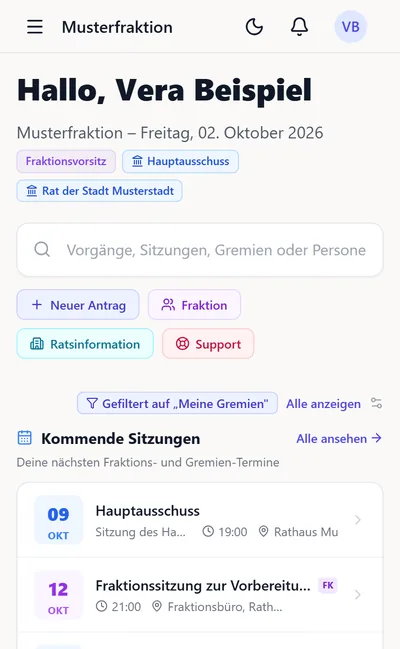
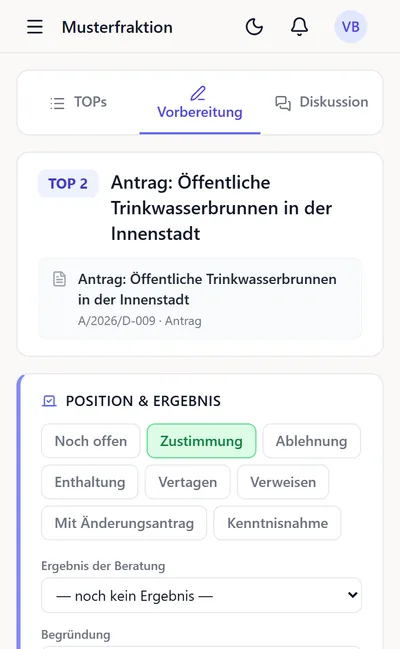
Startseite: Work am Handy mit der Sitzungsvorbereitung statt Dashboard
Am Handy zeigte das Work-Bild bisher das Dashboard mit Begrüßung und
Schnellzugriffen, der Alt-Text beschrieb aber die Sitzungsvorbereitung.
Ein <source> kann den Alt-Text nicht ändern, Screenreader hörten also
eine Beschreibung, die nicht zum Bild passte.

- neues Hochformat aus der öffentlichen Demo (Musterstadt): derselbe
  Bildschirm wie am Desktop, Sitzung vorbereiten mit TOP 2 und der
  Position der Fraktion; nur lesend aufgenommen, Demo-Hinweise und die
  halbdurchsichtige Kopfzeile im Bild bereinigt
- Alt-Text so gefasst, dass er auf beide Bilder zutrifft
- Work wird wie Insight bevorzugt geladen (fetchpriority=high), am Handy
  ist es das größte sichtbare Bild

diff --git a/templates/marketing/landing.html b/templates/marketing/landing.html
@@ -18,7 +18,7 @@
             </div>
         </div>
 
-        {# Eine Figur aus drei echten Bildschirmen, leicht versetzt: hinten Session, dann Work, vorne Insight. Am Handy zwei Bildschirme im Hochformat (Work und Insight), Session entfällt dort. #}
+        {# Eine Figur aus drei echten Bildschirmen, leicht versetzt: hinten Session, dann Work, vorne Insight. Am Handy zwei Bildschirme im Hochformat (Work und Insight), Session entfällt dort. Das Hochformat zeigt jeweils denselben Bildschirm wie am Desktop, damit der Alt-Text an beiden passt. #}
         <figure class="lg:col-span-6">
             <figcaption class="sr-only">Die drei Produkte von mandari mit echten Bildschirmen: mandari Session für den Sitzungsdienst, mandari Work für die Fraktion und vorne das Bürgerportal mandari Insight für Münster.</figcaption>
             <div class="hero-stapel">
@@ -36,8 +36,8 @@
                     <img src="{% static 'images/startseite/hero-work-800.webp' %}"
                          srcset="{% static 'images/startseite/hero-work-800.webp' %} 800w, {% static 'images/startseite/hero-work-1600.webp' %} 1600w"
                          sizes="(min-width: 1280px) 440px, (min-width: 1024px) 34vw, 70vw"
-                         width="800" height="500" decoding="async"
-                         alt="mandari Work: Die Fraktion bereitet die Ratssitzung vor, mit Tagesordnung, Position je Tagesordnungspunkt und Diskussion">
+                         width="800" height="500" fetchpriority="high" decoding="async"
+                         alt="mandari Work: Die Fraktion bereitet die Ratssitzung vor und legt zu jedem Tagesordnungspunkt ihre Position fest">
                 </picture>
                 <picture class="hero-karte hero-karte-insight">
                     <source media="(max-width: 639px)"

diff --git a/marketing/tests/test_startseite.py b/marketing/tests/test_startseite.py
@@ -49,7 +49,10 @@ class StartseitenHeroTests(TestCase):
         insight = self.bilder()[-1]
         self.assertNotIn('loading="lazy"', insight)
         self.assertIn('fetchpriority="high"', insight)
-        self.assertNotIn('loading="lazy"', self.bilder()[1])
+        # Work ist am Handy das größte sichtbare Bild und wird ebenfalls bevorzugt geladen
+        work = self.bilder()[1]
+        self.assertNotIn('loading="lazy"', work)
+        self.assertIn('fetchpriority="high"', work)
 
     def test_kein_zweiter_grosser_screenshot(self):
         # Der frühere Screenshot über volle Breite entfällt; Insight steht nur noch in der Figur.
